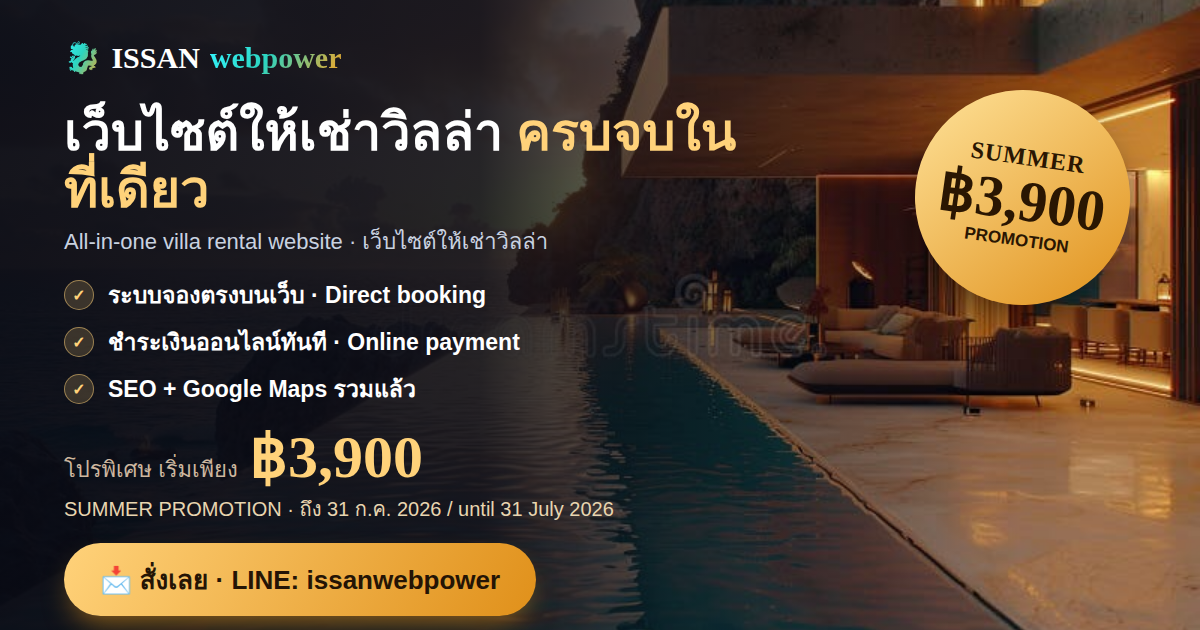
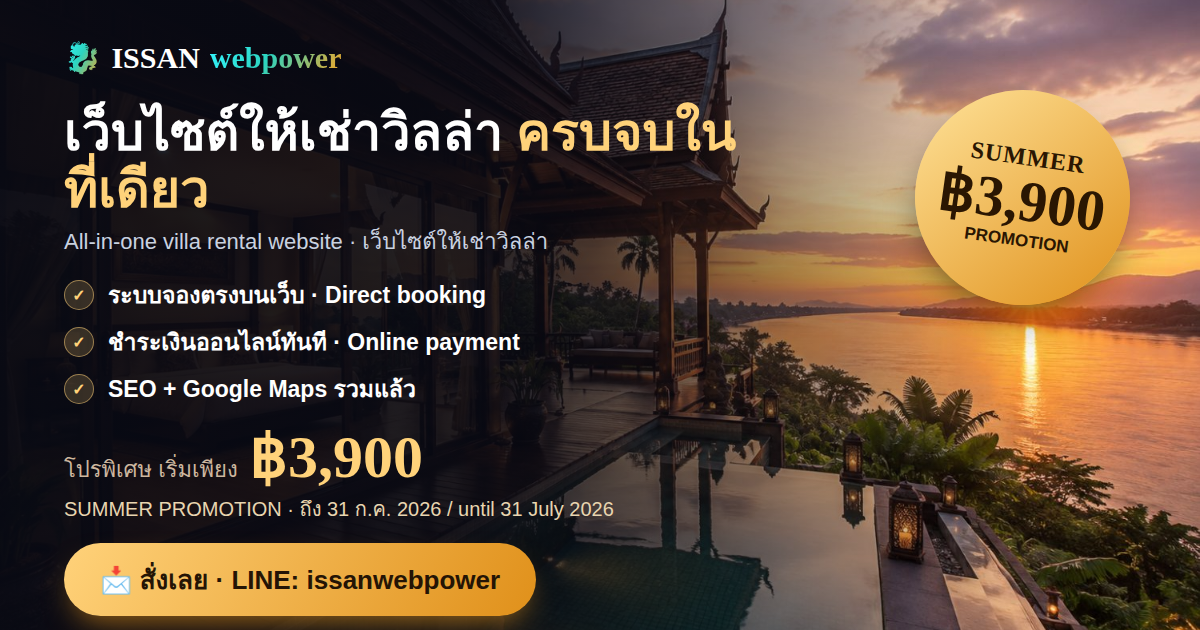
Section location de villa + nouvelle photo
- New industry section #villa on the site (image + features + 3,900 THB
  summer promo + CTAs), bilingual TH/EN, reveal-on-scroll
- Replace the watermarked stock photo with a clean Thai riverside villa
  image; regenerate the promo banners with it (assets/img/villa.jpg,
  assets/brand/promo/)

Claude-Session: https://claude.ai/code/session_01Lf6CpBF9W4tudeC6RUoVi9

diff --git a/index.html b/index.html
@@ -322,6 +322,34 @@
       </div>
     </section>
 
+    <div class="ikat-sep" aria-hidden="true"></div>
+
+    <!-- ======================= VILLA RENTAL (vertical) ======================= -->
+    <section class="section vsec vsec--villa" id="villa">
+      <div class="container vsec__inner">
+        <div class="vsec__media">
+          <img src="assets/img/villa.jpg" alt="เว็บไซต์ให้เช่าวิลล่า ริมโขง / villa rental website" loading="lazy" />
+          <div class="vsec__badge"><span>SUMMER</span><strong>฿3,900</strong><em>PROMOTION</em></div>
+        </div>
+        <div class="vsec__text">
+          <p class="section__kicker section__kicker--accent" data-i18n="villa.kicker">บริการเฉพาะธุรกิจ · ให้เช่าวิลล่า</p>
+          <h2 class="section__title" data-i18n="villa.title">เว็บไซต์ให้เช่าวิลล่า ครบจบในที่เดียว</h2>
+          <p class="section__lead" data-i18n="villa.lead">เว็บไซต์สวยระดับพรีเมียมสำหรับวิลล่าให้เช่า — ลูกค้าจองและชำระเงินได้เองบนเว็บ ไม่ต้องผ่านคนกลาง พร้อมระบบที่ทำให้ถูกค้นเจอบน Google</p>
+          <ul class="vsec__feats">
+            <li><span class="ck">✓</span> <span data-i18n="villa.f1">ระบบจองตรงบนเว็บไซต์ · Direct booking</span></li>
+            <li><span class="ck">✓</span> <span data-i18n="villa.f2">ชำระเงินออนไลน์ได้ทันที · Online payment</span></li>
+            <li><span class="ck">✓</span> <span data-i18n="villa.f3">SEO + Google Maps รวมอยู่แล้ว</span></li>
+            <li><span class="ck">✓</span> <span data-i18n="villa.f4">แกลเลอรีรูป &amp; รองรับมือถือ 100%</span></li>
+          </ul>
+          <p class="vsec__promo"><strong data-i18n="villa.promo">โปรซัมเมอร์พิเศษ เริ่มเพียง ฿3,900</strong> <span data-i18n="villa.valid">· ถึง 31 ก.ค. 2026</span></p>
+          <div class="vsec__cta">
+            <a class="btn btn--primary" href="#study" data-i18n="villa.cta">รับข้อเสนอนี้</a>
+            <a class="btn btn--ghost" href="#contact" data-i18n="villa.cta2">สอบถามเพิ่มเติม</a>
+          </div>
+        </div>
+      </div>
+    </section>
+
     <!-- ======================= FREE STUDY (most important) ======================= -->
     <section class="section study" id="study">
       <div class="container study__inner">

diff --git a/assets/js/main.js b/assets/js/main.js
@@ -65,6 +65,18 @@
       "work.c3.text": "แดชบอร์ดจัดการกะ สต็อก และยอดขาย ในที่เดียว",
       "work.note": "* ตัวอย่างประกอบเพื่อสาธิต — เปลี่ยนเป็นผลงานจริงของคุณได้",
 
+      "villa.kicker": "บริการเฉพาะธุรกิจ · ให้เช่าวิลล่า",
+      "villa.title": "เว็บไซต์ให้เช่าวิลล่า ครบจบในที่เดียว",
+      "villa.lead": "เว็บไซต์สวยระดับพรีเมียมสำหรับวิลล่าให้เช่า — ลูกค้าจองและชำระเงินได้เองบนเว็บ ไม่ต้องผ่านคนกลาง พร้อมระบบที่ทำให้ถูกค้นเจอบน Google",
+      "villa.f1": "ระบบจองตรงบนเว็บไซต์ · Direct booking",
+      "villa.f2": "ชำระเงินออนไลน์ได้ทันที · Online payment",
+      "villa.f3": "SEO + Google Maps รวมอยู่แล้ว",
+      "villa.f4": "แกลเลอรีรูป & รองรับมือถือ 100%",
+      "villa.promo": "โปรซัมเมอร์พิเศษ เริ่มเพียง ฿3,900",
+      "villa.valid": "· ถึง 31 ก.ค. 2026",
+      "villa.cta": "รับข้อเสนอนี้",
+      "villa.cta2": "สอบถามเพิ่มเติม",
+
       "study.kicker": "ข้อเสนอพิเศษ",
       "study.title": "รับ “การศึกษาฟรี” สำหรับร้านของคุณ",
       "study.lead": "บอกข้อมูลร้านและลิงก์ออนไลน์ทั้งหมดของคุณ แล้วผมจะวิเคราะห์การมองเห็นออนไลน์ของคุณ พร้อมคำแนะนำที่ทำได้จริง — ฟรี ไม่มีข้อผูกมัด",
@@ -174,6 +186,18 @@
       "work.c3.title": "Staff management system",
       "work.c3.text": "One dashboard for shifts, stock and sales.",
       "work.note": "* Illustrative samples for demo — replace with your real work.",
+
+      "villa.kicker": "Industry solution · Villa rental",
+      "villa.title": "All-in-one villa rental website",
+      "villa.lead": "A premium website for your rental villa — guests book and pay directly online, no middleman, plus everything to get found on Google.",
+      "villa.f1": "Direct booking on your site",
+      "villa.f2": "Instant online payment",
+      "villa.f3": "SEO + Google Maps included",
+      "villa.f4": "Photo gallery & 100% mobile-ready",
+      "villa.promo": "Summer special from ฿3,900",
+      "villa.valid": "· until 31 July 2026",
+      "villa.cta": "Get this offer",
+      "villa.cta2": "Ask a question",
 
       "study.kicker": "Special offer",
       "study.title": "Get a free study for your shop",
@@ -294,7 +318,7 @@
 
     // reveal on scroll
     const revealEls = document.querySelectorAll(
-      ".section__head, .card, .ba-wrap, .wcard, .study__form, .study__intro, .local__art, .local__text, .contact__card"
+      ".section__head, .card, .ba-wrap, .wcard, .vsec__media, .vsec__text, .study__form, .study__intro, .local__art, .local__text, .contact__card"
     );
     revealEls.forEach((el) => el.classList.add("reveal"));
     if ("IntersectionObserver" in window) {

diff --git a/assets/css/style.css b/assets/css/style.css
@@ -335,6 +335,26 @@ html[lang="th"] .section__title{line-height:1.35}
 .wcard__metric strong{font-family:var(--font-display);font-size:1.3rem;background:var(--grad-text);-webkit-background-clip:text;background-clip:text;color:transparent}
 .work__note{text-align:center;color:var(--ink-faint);font-size:.82rem;margin-top:28px}
 
+/* Vertical/industry sections (villa, restaurant, …) */
+.vsec__inner{display:grid;grid-template-columns:1.05fr 1fr;gap:48px;align-items:center}
+.vsec--villa{background:radial-gradient(ellipse at 85% 0%,rgba(245,165,36,.14),transparent 55%),radial-gradient(ellipse at 0% 100%,rgba(20,184,166,.12),transparent 55%)}
+.vsec__media{position:relative;border-radius:var(--radius-lg);overflow:hidden;border:1px solid var(--line-strong);box-shadow:var(--shadow)}
+.vsec__media img{display:block;width:100%;height:100%;object-fit:cover;aspect-ratio:3/2}
+.vsec__badge{position:absolute;top:18px;right:18px;display:flex;flex-direction:column;align-items:center;justify-content:center;text-align:center;
+  width:118px;height:118px;border-radius:50%;transform:rotate(8deg);color:#241405;
+  background:linear-gradient(135deg,#ffe39a,#e0901a);box-shadow:0 14px 30px -10px rgba(0,0,0,.6)}
+.vsec__badge span{font-family:var(--font-display);font-weight:800;font-size:.72rem;letter-spacing:1px}
+.vsec__badge strong{font-family:var(--font-display);font-weight:800;font-size:1.7rem;line-height:.95}
+.vsec__badge em{font-style:normal;font-weight:700;font-size:.6rem;letter-spacing:.5px}
+.vsec__feats{display:grid;gap:12px;margin:22px 0}
+.vsec__feats li{display:flex;align-items:center;gap:12px;color:var(--ink);font-size:1.02rem}
+.vsec__feats .ck{flex:none;display:grid;place-items:center;width:28px;height:28px;border-radius:50%;
+  color:var(--amber);background:rgba(245,165,36,.14);border:1px solid rgba(245,165,36,.5);font-size:.85rem;font-weight:700}
+.vsec__promo{font-size:1.02rem;color:var(--ink-dim);margin-bottom:22px}
+.vsec__promo strong{font-family:var(--font-display);color:var(--amber);font-size:1.18rem}
+.vsec__cta{display:flex;flex-wrap:wrap;gap:14px}
+@media (max-width:900px){.vsec__inner{grid-template-columns:1fr;gap:30px}.vsec__badge{width:96px;height:96px}.vsec__badge strong{font-size:1.4rem}}
+
 /* phone mockup */
 .phone{width:96px;height:150px;border-radius:18px;background:#0c0a24;border:2px solid rgba(255,255,255,.18);padding:10px 8px;position:relative;box-shadow:0 12px 30px -12px rgba(0,0,0,.7)}
 .phone__notch{position:absolute;top:7px;left:50%;transform:translateX(-50%);width:30px;height:4px;border-radius:3px;background:rgba(255,255,255,.25)}